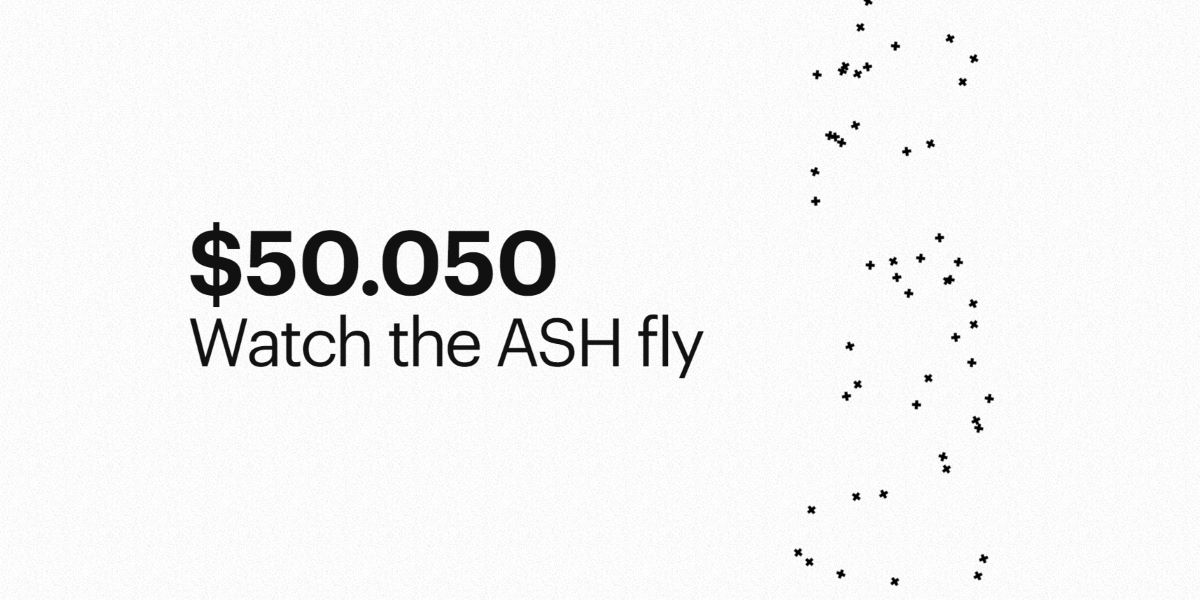
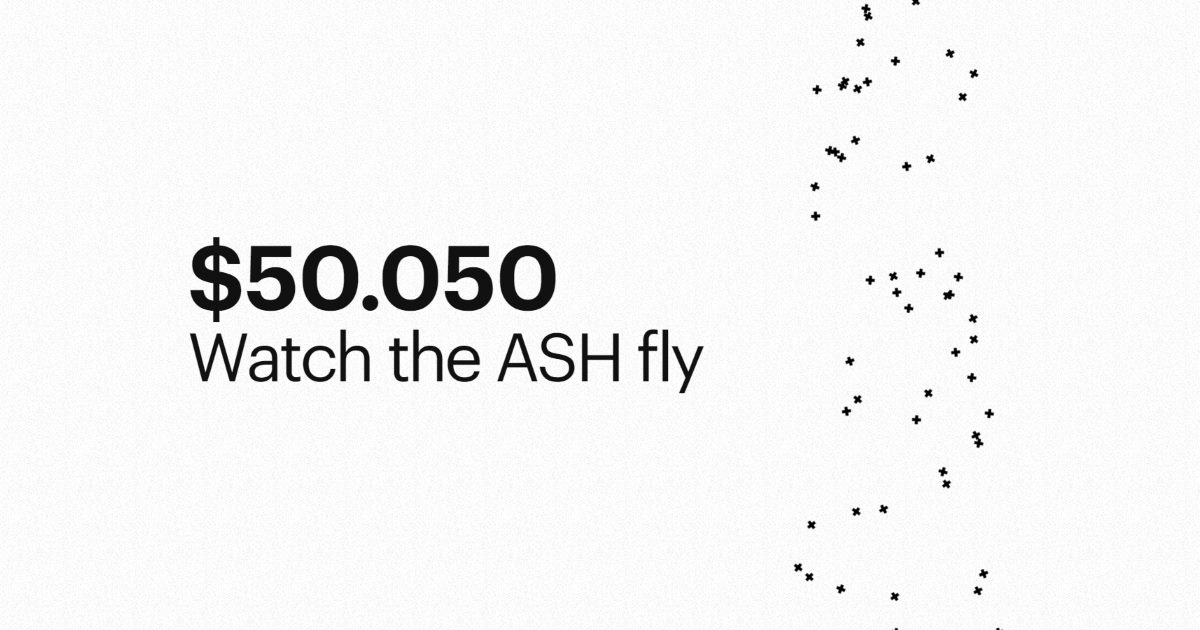
🔎 Better SEO tags

diff --git a/nuxt.config.js b/nuxt.config.js
@@ -16,9 +16,11 @@ export default {
       { hid: 'og:site_name', name: 'og:site_name', property: 'og:site_name', content: 'Watch Ash Fly' },
       { hid: 'og:description', name: 'og:description', property: 'og:description', content: '$ASH and Fungibles stats' },
       { hid: 'og:url', name: 'og:url', property: 'og:url', content: 'https://watchashfly.tina.cafe/' },
+      { hid: 'twitter:card', name: 'twitter:card', property: 'twitter:card', content: 'summary_large_image' },
+      { hid: 'twitter:image', name: 'twitter:image', property: 'twitter:image', content: 'https://watchashfly.tina.cafe/preview.jpg' },
       { hid: 'og:image', name: 'og:image', property: 'og:image', content: 'https://watchashfly.tina.cafe/preview.jpg' },
       { hid: 'og:image:width', name: 'og:image:width', property: 'og:image:width', content: '1200' },
-      { hid: 'og:image:height', name: 'og:image:height', property: 'og:image:height', content: '600' }
+      { hid: 'og:image:height', name: 'og:image:height', property: 'og:image:height', content: '630' }
     ],
     htmlAttrs: {
       lang: 'en'
